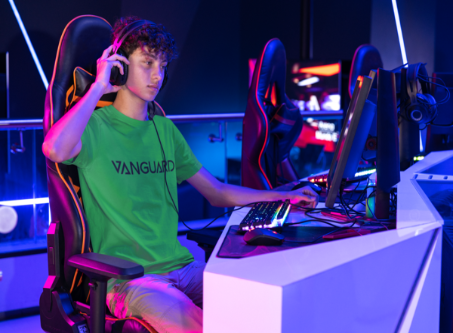
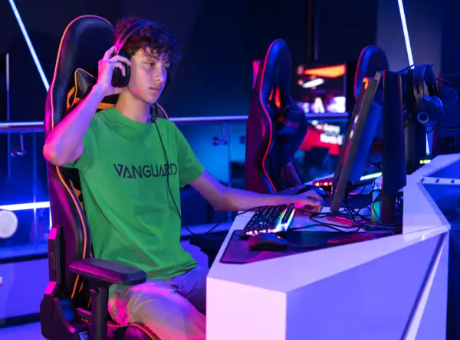
Resized some merchandise images due to a Lighthouse opportunity message

diff --git a/README.md b/README.md
@@ -86,7 +86,7 @@ The Best Apps Section provides the user with a nice 4 card horizontal layout wit
 
 ### Join Us Section
 <img src="./assets/readme/join-us.PNG" alt="Join Us Section">
-The Join Us Section provides the user with a quote from one of the Destiny Franchise characters, a form and some custom merchandise images.
+The Join Us Section at the beginning of the section the user will see a quote from one of the Destiny Franchise characters and a bit of incentive text to join us. There is a form below that also contains a feedback area and some custom merchandise images.
 
 
 ## Technologies Used
